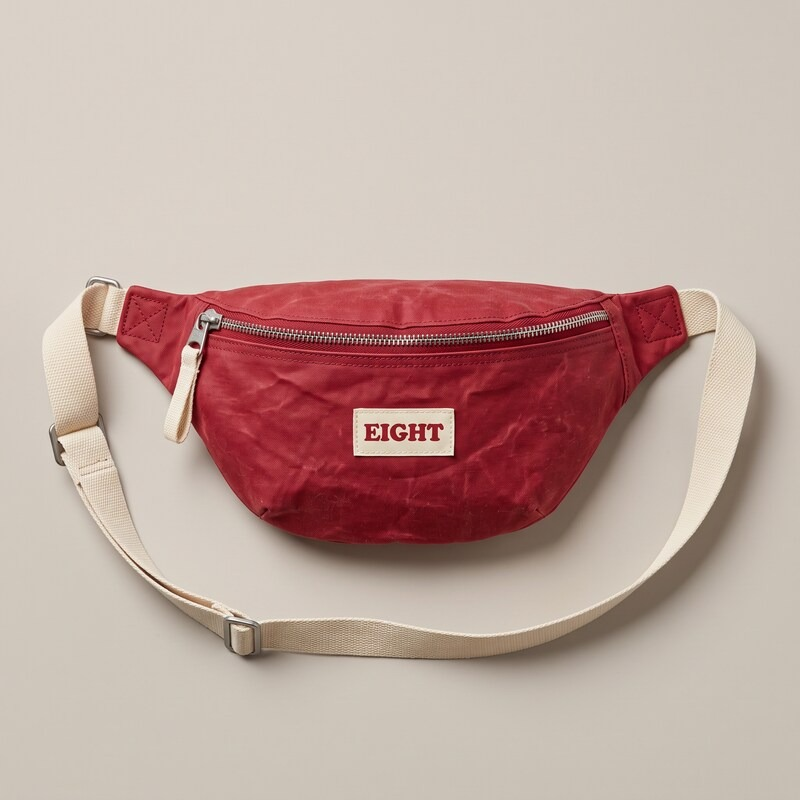
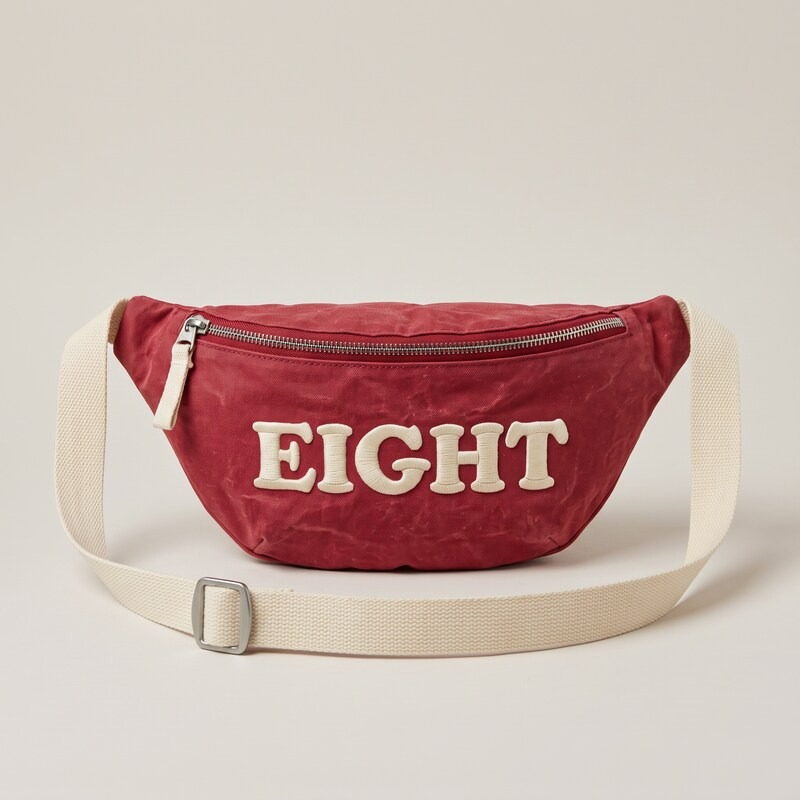
EIGHT: new carousel photos, 6 new sets, night frames, new fanny pack (EN + ES)
Claude-Session: https://claude.ai/code/session_01BUTcawNdGFRFG3hEY5QCVu

diff --git a/src/content.config.ts b/src/content.config.ts
@@ -57,7 +57,7 @@ const projects = defineCollection({
         .array(
           z.discriminatedUnion('type', [
             z.object({ type: z.literal('image'), src: image(), alt: z.string(), caption: z.string().optional(), wide: z.boolean().default(false) }),
-            z.object({ type: z.literal('images'), items: z.array(z.object({ src: image(), alt: z.string() })).min(2).max(3), caption: z.string().optional() }),
+            z.object({ type: z.literal('images'), items: z.array(z.object({ src: image(), alt: z.string() })).min(2).max(4), caption: z.string().optional() }),
             z.object({ type: z.literal('video'), url: z.string().url(), ratio: z.string().default('16/9'), title: z.string().optional(), caption: z.string().optional() }),
             z.object({ type: z.literal('text'), body: z.string() }),
             /** A small section title inside the blocks, e.g. "02 · Product". */

diff --git a/src/styles/global.css b/src/styles/global.css
@@ -352,7 +352,7 @@ html[lang="es"] .hero h1 { font-size: clamp(2.4rem, 4.8vw, 5.6rem); }
 .block-images { display: grid; grid-template-columns: repeat(var(--cols, 2), minmax(0, 1fr)); gap: clamp(0.75rem, 2vw, 2rem); }
 .block-images img { width: 100%; height: 100%; object-fit: cover; }
 .block-images figcaption { grid-column: 1 / -1; }
-@media (max-width: 700px) { .block-images { grid-template-columns: 1fr; } }
+@media (max-width: 700px) { .block-images { grid-template-columns: 1fr; } .block-images[style*='--cols: 4'] { grid-template-columns: 1fr 1fr; } }
 .block-text { padding-block: clamp(0.5rem, 2vw, 1.5rem); }
 .prose { max-width: 62ch; margin-inline: auto; }
 .prose p { color: #d9d5cd; }

diff --git a/src/content/projects/eight.md b/src/content/projects/eight.md
@@ -1,6 +1,6 @@
 ---
 title: EIGHT
-summary: A streetwear brand that doesn't exist, launched with a photo campaign that looks like it does. Identity, product, casting, sets and six campaign frames, built as one AI pipeline.
+summary: A streetwear brand that doesn't exist, launched with a photo campaign that looks like it does. Identity, product, casting, ten sets and a campaign shot by day and by night, built as one AI pipeline.
 category: Brand & photo campaign
 section: commercial
 client: EIGHT (fictional brand)
@@ -13,9 +13,10 @@ coverAlt: A woman with a platinum bob wears a faded cherry-red EIGHT cap pulled 
 gallery:
   - { src: ../../assets/projects/eight/12-frame-cap.jpg, alt: Lía against a mint wall, the EIGHT cap pulled low over her eyes. }
   - { src: ../../assets/projects/eight/11-frame-socks.jpg, alt: Inti on a chrome chair pulling on red EIGHT socks. }
-  - { src: ../../assets/projects/eight/13-frame-kitchen.jpg, alt: Lía crouching on the kitchen floor with two tomatoes over her eyes, the EIGHT fanny pack crossbody. }
-  - { src: ../../assets/projects/eight/15-frame-still-life.jpg, alt: The EIGHT cap on a blue doorstep with sunglasses, cherries and an espresso cup. }
+  - { src: ../../assets/projects/eight/18-frame-bedroom.jpg, alt: Lía sitting on an unmade 70s bed in the EIGHT cap, holding cream sunglasses. }
   - { src: ../../assets/projects/eight/14-frame-inti.jpg, alt: Inti sitting in the living room in the EIGHT cap and socks. }
+  - { src: ../../assets/projects/eight/17-frame-sofa.jpg, alt: Seen from above, Lía lying on a black leather sofa behind a magazine, in EIGHT socks. }
+  - { src: ../../assets/projects/eight/19-frame-bar.jpg, alt: Inti on a red stool at a Barcelona neighbourhood bar, the EIGHT cap on and the fanny pack crossbody. }
   - { src: ../../assets/projects/eight/16-frame-newspaper.jpg, alt: Lía hiding behind a newspaper in the living room, wearing EIGHT socks. }
 caseStudy:
   kind: concept
@@ -37,15 +38,15 @@ caseStudy:
     - title: Casting
       text: Character sheets for Inti and Lía — front, back, face and the details that make them recognisable (rings, tattoo, cherry earring, red nails).
     - title: Sets
-      text: Four locations with one look — a 70s living room, a kitchen, a pink bathroom and a sunny side street. 35 mm, direct flash, hard shadows.
+      text: Ten locations with one look — a 70s living room, kitchen, bedroom and pink bathroom, a sunny side street, a Barcelona rooftop, a neighbourhood bar, a black leather sofa, a metro photo booth and a phone booth. 35 mm, direct flash, hard shadows.
     - title: Photos
-      text: Six frames in 4:5 and 9:16. Each one takes a model, a product and a set as references; the prompt only directs pose, framing and light.
+      text: Day and night frames in 4:5 and 9:16. Each one takes a model, a product and a set as references; the prompt only directs pose, framing and light.
   deliverables:
     - Brand identity sheet — wordmark, monogram and woven label
     - 3 product packshots
     - 2 character sheets
-    - 4 set plates
-    - 6 campaign photos for feed (4:5) and stories (9:16)
+    - 10 set plates
+    - 9 campaign photos for feed (4:5) and stories (9:16)
     - A reusable node board in Magnific Spaces — edit one description and the chain regenerates
   credits:
     - role: Creative direction & AI pipeline
@@ -77,7 +78,7 @@ blocks:
         items:
           - { src: ../../assets/projects/eight/11-frame-socks.jpg, label: Frame 1 — Living }
           - { src: ../../assets/projects/eight/12-frame-cap.jpg, label: Frame 2 — Street }
-          - { src: ../../assets/projects/eight/13-frame-kitchen.jpg, label: Frame 3 — Kitchen }
+          - { src: ../../assets/projects/eight/19-frame-bar.jpg, label: Frame 11 — Bar }
     caption: Simplified view of the Magnific Spaces board. Logo → packshots; casting, product and set → each frame.
   - type: heading
     label: 01 · Identity & product
@@ -89,7 +90,7 @@ blocks:
   - type: images
     items:
       - { src: ../../assets/projects/eight/02-cap.jpg, alt: Faded cherry-red cap with EIGHT embroidered in cream, with an inset of the back strap and monogram. }
-      - { src: ../../assets/projects/eight/03-fanny-pack.jpg, alt: Cherry-red waxed canvas fanny pack with a cream strap and a woven EIGHT label. }
+      - { src: ../../assets/projects/eight/03-fanny-pack.jpg, alt: Cherry-red waxed canvas fanny pack with a cream strap and EIGHT embroidered in raised cream letters. }
       - { src: ../../assets/projects/eight/04-socks.jpg, alt: Red socks with a cream windowpane grid and the 8 monogram on the ankle. }
     caption: Packshots. The logo node is the reference for all three, so the lettering is identical.
   - type: heading
@@ -104,8 +105,8 @@ blocks:
     alt: Character sheet for Lía — full body front and back, face, red eyeliner, red nails, cherry earring and freckles.
   - type: heading
     label: 03 · Sets
-    title: Four rooms, one look
-    text: Empty plates first, so each set exists before anyone walks into it. Same film stock, same flash, same warm cast.
+    title: Ten sets, one look
+    text: Empty plates first, so each set exists before anyone walks into it. Same film stock and the same direct flash throughout — warm in the daytime rooms, hard against the dark at night.
   - type: images
     items:
       - { src: ../../assets/projects/eight/07-living.jpg, alt: 70s living room with a teak sideboard, plants, a lamp and a chrome chair, lit by direct flash. }
@@ -114,6 +115,19 @@ blocks:
     items:
       - { src: ../../assets/projects/eight/09-bathroom.jpg, alt: Pink vintage washbasin with a gold faucet, a lilac hairbrush and rings. }
       - { src: ../../assets/projects/eight/10-street.jpg, alt: Sunny Mediterranean side street with pastel walls, a green door and a red scooter. }
+  - type: images
+    items:
+      - { src: ../../assets/projects/eight/20-bedroom.jpg, alt: 70s bedroom with an unmade bed, a geometric orange bedspread, floral wallpaper and a mirrored wardrobe. }
+      - { src: ../../assets/projects/eight/25-leather-sofa.jpg, alt: Seen from above at night, a worn black leather sofa, a brown armchair and a glass side table with magazines. }
+  - type: images
+    items:
+      - { src: ../../assets/projects/eight/22-bar.jpg, alt: Old-school Barcelona bar with a steel counter, green azulejo tiles, red stools and a hanging jamón. }
+      - { src: ../../assets/projects/eight/21-rooftop.jpg, alt: Barcelona rooftop terrace with sheets and towels drying on clotheslines over the city. }
+  - type: images
+    items:
+      - { src: ../../assets/projects/eight/23-photo-booth.jpg, alt: Blue and orange photo booth in a metro passageway at night. }
+      - { src: ../../assets/projects/eight/24-phone-booth.jpg, alt: Graffiti-covered phone booth on a Barcelona street corner at blue hour. }
+    caption: The new sets — bedroom, leather sofa, bar, rooftop, photo booth and phone booth.
   - type: heading
     label: 04 · Campaign
     title: The photos
@@ -125,10 +139,15 @@ blocks:
       - { src: ../../assets/projects/eight/15-frame-still-life.jpg, alt: Still life on a blue doorstep — the EIGHT cap, cat-eye sunglasses, two cherries and an espresso cup. }
   - type: images
     items:
+      - { src: ../../assets/projects/eight/17-frame-sofa.jpg, alt: Seen from above, Lía lying on a black leather sofa behind a magazine, in EIGHT socks. }
+      - { src: ../../assets/projects/eight/18-frame-bedroom.jpg, alt: Lía sitting on an unmade 70s bed in the EIGHT cap, holding cream sunglasses. }
+  - type: images
+    items:
       - { src: ../../assets/projects/eight/13-frame-kitchen.jpg, alt: Lía crouching on the kitchen floor holding two tomatoes over her eyes, the EIGHT fanny pack crossbody. }
       - { src: ../../assets/projects/eight/14-frame-inti.jpg, alt: Inti sitting in the living room in the EIGHT cap and socks. }
+      - { src: ../../assets/projects/eight/19-frame-bar.jpg, alt: Inti on a red stool at a Barcelona neighbourhood bar, the EIGHT cap on and the fanny pack crossbody. }
       - { src: ../../assets/projects/eight/16-frame-newspaper.jpg, alt: Lía hiding behind an open newspaper in the living room, wearing EIGHT socks and loafers. }
-    caption: Six frames — 4:5 for the feed, 9:16 for stories.
+    caption: Nine frames, day and night — 4:5 for the feed, 9:16 for stories.
 ---
 
 A fictional brand, built to show the process end to end: from a blank board to a campaign that could run on Instagram tomorrow.

diff --git a/src/content/projects-es/eight.md b/src/content/projects-es/eight.md
@@ -1,5 +1,5 @@
 ---
-summary: Una marca de streetwear que no existe, lanzada con una campaña de fotos que parece real. Identidad, producto, casting, escenarios y seis fotos de campaña, hechos como un único pipeline de IA.
+summary: Una marca de streetwear que no existe, lanzada con una campaña de fotos que parece real. Identidad, producto, casting, diez escenarios y una campaña de día y de noche, hechos como un único pipeline de IA.
 category: Marca y campaña de fotos
 client: EIGHT (marca ficticia)
 role: Dirección creativa, dirección de arte, pipeline de IA
@@ -7,9 +7,10 @@ coverAlt: Una mujer con bob platinado lleva una gorra EIGHT roja desteñida que 
 gallery:
   - alt: Lía contra una pared verde menta, con la gorra EIGHT bajada sobre los ojos.
   - alt: Inti en una silla cromada poniéndose las medias rojas de EIGHT.
-  - alt: Lía en cuclillas en el suelo de la cocina, con dos tomates sobre los ojos y la riñonera EIGHT cruzada.
-  - alt: La gorra EIGHT en un escalón azul con anteojos de sol, cerezas y un café.
+  - alt: Lía sentada en una cama setentera deshecha, con la gorra EIGHT y unos anteojos de sol crema en la mano.
   - alt: Inti sentado en el living con la gorra y las medias EIGHT.
+  - alt: Vista desde arriba, Lía recostada en un sofá de cuero negro detrás de una revista, con medias EIGHT.
+  - alt: Inti en un taburete rojo de un bar de barrio de Barcelona, con la gorra EIGHT y la riñonera cruzada.
   - alt: Lía escondida detrás de un diario en el living, con medias EIGHT.
 caseStudy:
   brief: >-
@@ -30,15 +31,15 @@ caseStudy:
     - title: Casting
       text: Fichas de personaje de Inti y Lía — frente, espalda, cara y los detalles que los hacen reconocibles (anillos, tatuaje, aro de cereza, uñas rojas).
     - title: Escenarios
-      text: Cuatro locaciones con un mismo look — un living setentero, una cocina, un baño rosa y una calle soleada. 35 mm, flash directo, sombras duras.
+      text: Diez locaciones con un mismo look — un living, una cocina, un dormitorio y un baño rosa setenteros, una calle soleada, una azotea de Barcelona, un bar de barrio, un sofá de cuero negro, un fotomatón del metro y una cabina telefónica. 35 mm, flash directo, sombras duras.
     - title: Fotos
-      text: Seis fotos en 4:5 y 9:16. Cada una toma un modelo, un producto y un escenario como referencia; el prompt solo dirige pose, encuadre y luz.
+      text: Fotos de día y de noche en 4:5 y 9:16. Cada una toma un modelo, un producto y un escenario como referencia; el prompt solo dirige pose, encuadre y luz.
   deliverables:
     - Hoja de identidad — logotipo, monograma y etiqueta tejida
     - 3 packshots de producto
     - 2 fichas de personaje
-    - 4 fondos de escenario
-    - 6 fotos de campaña para feed (4:5) y stories (9:16)
+    - 10 fondos de escenario
+    - 9 fotos de campaña para feed (4:5) y stories (9:16)
     - Un tablero de nodos reutilizable en Magnific Spaces — se edita una descripción y la cadena se regenera
   credits:
     - role: Dirección creativa y pipeline de IA
@@ -68,7 +69,7 @@ blocks:
         items:
           - label: Foto 1 — Living
           - label: Foto 2 — Calle
-          - label: Foto 3 — Cocina
+          - label: Foto 11 — Bar
     caption: Vista simplificada del tablero en Magnific Spaces. Logo → packshots; casting, producto y escenario → cada foto.
   - label: 01 · Identidad y producto
     title: Una marca en dos colores
@@ -76,7 +77,7 @@ blocks:
   - alt: Hoja de identidad de EIGHT — logotipo rojo sobre crema, un monograma con el 8 en un círculo y una etiqueta tejida.
   - items:
       - alt: Gorra roja desteñida con EIGHT bordado en crema, con un detalle de la tira trasera y el monograma.
-      - alt: Riñonera de lona encerada rojo cereza con correa crema y etiqueta tejida EIGHT.
+      - alt: Riñonera de lona encerada rojo cereza con correa crema y EIGHT bordado en letras crema en relieve.
       - alt: Medias rojas con cuadrícula crema y el monograma 8 en el tobillo.
     caption: Packshots. El nodo del logo es la referencia de los tres, por eso las letras son idénticas.
   - label: 02 · Casting
@@ -85,14 +86,24 @@ blocks:
   - alt: Ficha de personaje de Inti — cuerpo entero de frente y de espalda, cara, perfil, anillos, reloj y botas.
   - alt: Ficha de personaje de Lía — cuerpo entero de frente y de espalda, cara, delineado rojo, uñas rojas, aro de cereza y pecas.
   - label: 03 · Escenarios
-    title: Cuatro espacios, un mismo look
-    text: Primero los fondos vacíos, para que cada escenario exista antes de que alguien entre. Misma película, mismo flash, mismo tono cálido.
+    title: Diez escenarios, un mismo look
+    text: Primero los fondos vacíos, para que cada escenario exista antes de que alguien entre. Misma película y el mismo flash directo en todo — cálido en los espacios de día, duro contra la oscuridad de noche.
   - items:
       - alt: Living de los 70 con un aparador de teca, plantas, una lámpara y una silla cromada, con flash directo.
       - alt: Cocina angosta de los 70 con muebles de pino, baldosas octogonales y tomates en el alféizar.
   - items:
       - alt: Lavabo rosa vintage con grifería dorada, un cepillo lila y anillos.
       - alt: Calle mediterránea soleada con paredes pastel, una puerta verde y una moto roja.
+  - items:
+      - alt: Dormitorio setentero con la cama deshecha, colcha naranja geométrica, papel floreado y un ropero con espejo.
+      - alt: Vista desde arriba, de noche, un sofá de cuero negro gastado, un sillón marrón y una mesita de vidrio con revistas.
+  - items:
+      - alt: Bar de toda la vida en Barcelona, con barra de acero, azulejos verdes, taburetes rojos y un jamón colgado.
+      - alt: Azotea de Barcelona con sábanas y toallas secándose en tendederos sobre la ciudad.
+  - items:
+      - alt: Fotomatón azul y naranja en un pasillo del metro de noche.
+      - alt: Cabina telefónica llena de grafitis en una esquina de Barcelona a la hora azul.
+    caption: Los escenarios nuevos — dormitorio, sofá de cuero, bar, azotea, fotomatón y cabina.
   - label: 04 · Campaña
     title: Las fotos
     text: Cada foto combina un modelo, un producto y un escenario. El prompt solo dirige lo que dirigiría un fotógrafo —pose, encuadre, luz— y mantiene las poses un poco raras, a propósito.
@@ -101,10 +112,14 @@ blocks:
       - alt: Lía contra una pared verde menta, con la gorra EIGHT bajada sobre los ojos.
       - alt: Naturaleza muerta en un escalón azul — la gorra EIGHT, anteojos de sol tipo cat-eye, dos cerezas y un café.
   - items:
+      - alt: Vista desde arriba, Lía recostada en un sofá de cuero negro detrás de una revista, con medias EIGHT.
+      - alt: Lía sentada en una cama setentera deshecha, con la gorra EIGHT y unos anteojos de sol crema en la mano.
+  - items:
       - alt: Lía en cuclillas en el suelo de la cocina, con dos tomates sobre los ojos y la riñonera EIGHT cruzada.
       - alt: Inti sentado en el living con la gorra y las medias EIGHT.
+      - alt: Inti en un taburete rojo de un bar de barrio de Barcelona, con la gorra EIGHT y la riñonera cruzada.
       - alt: Lía escondida detrás de un diario abierto en el living, con medias EIGHT y mocasines.
-    caption: Seis fotos — 4:5 para el feed, 9:16 para stories.
+    caption: Nueve fotos, de día y de noche — 4:5 para el feed, 9:16 para stories.
 ---
 
 Una marca ficticia, creada para mostrar el proceso completo: de un tablero en blanco a una campaña que podría salir mañana en Instagram.
